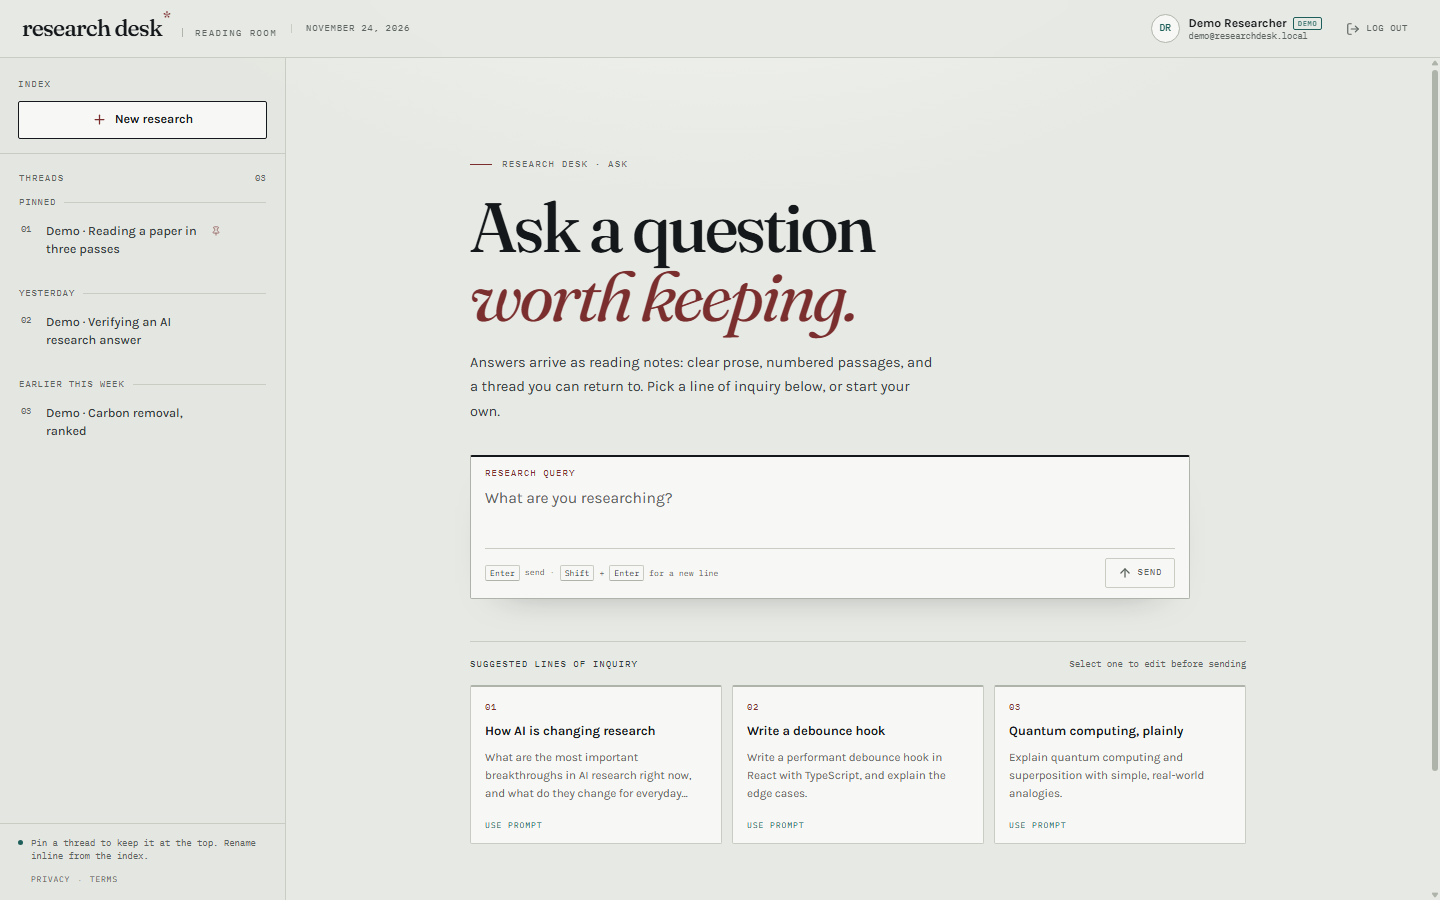
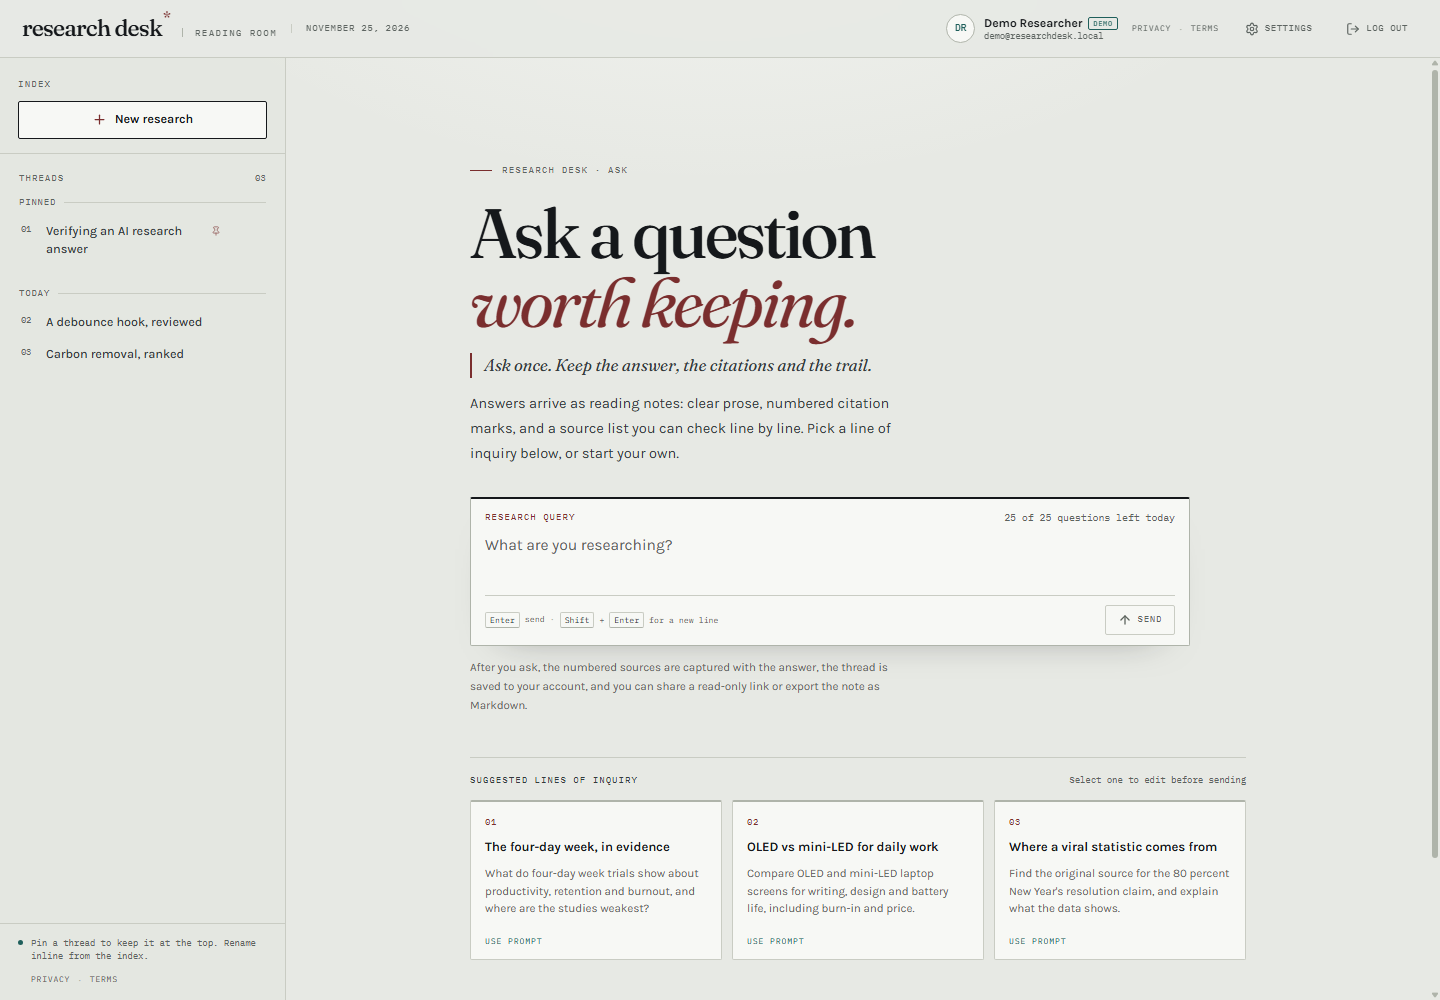
Refresh the Research Desk preview and source screenshots

diff --git a/README.md b/README.md
@@ -8,6 +8,8 @@ The desk is built around one promise: **give me an answer I can keep, cite, shar
 **API:** https://perplexity-clone-7nda.onrender.com
 
 ![Research Desk research note](docs/preview.png)
+![Research Desk sourced answer](docs/answer.png)
+![Research Desk source cards](docs/sources.png)
 
 ![React](https://img.shields.io/badge/React-19-149ECA?logo=react&logoColor=white)
 ![Vite](https://img.shields.io/badge/Vite-7-646CFF?logo=vite&logoColor=white)
